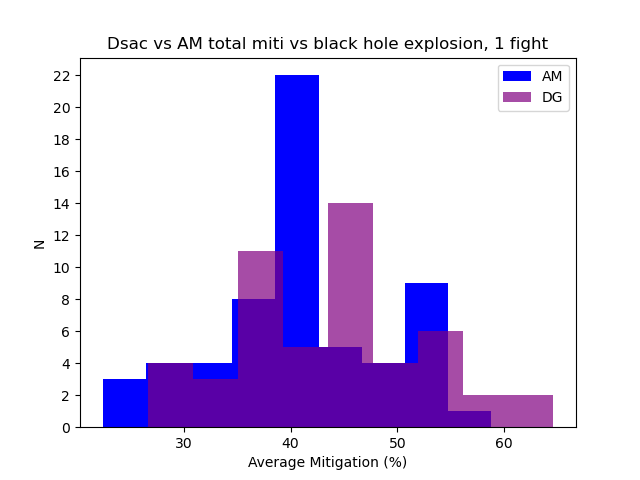
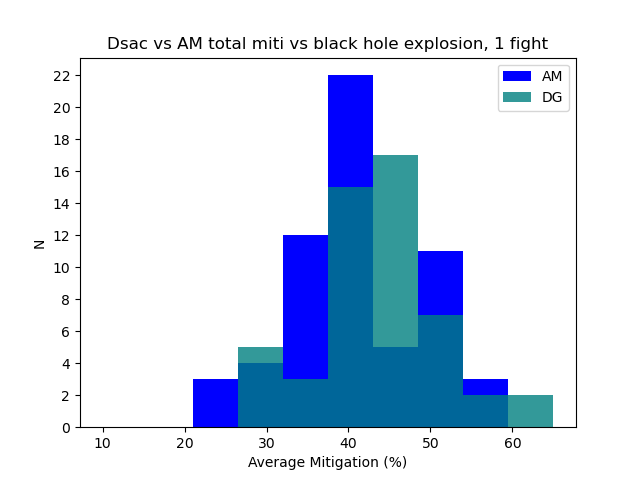
updated plots

Changed region(s): [[0.125, 0.1562, 0.875, 0.9375], [0.7812, 0.1875, 0.8438, 0.2188]]

diff --git a/am_vs_dg/test_external.py b/am_vs_dg/test_external.py
@@ -195,8 +195,10 @@ print(f'Average miti for DSac = ({dsac_mean:0.1f} +/- {dsac_std:0.1f})%')
 print(f'Average miti for both = ({both_mean:0.1f} +/- {both_std:0.1f})%')
 print(f'Average miti for none = ({none_mean:0.1f} +/- {none_std:0.1f})%')
 
-plt.hist(am, bins=9, label = "AM", color = "blue")
-plt.hist(dsac, bins=9, alpha = 0.7, label = "DG", color = "purple")
+b = np.linspace(10.0, 65.0, num = 11)
+
+plt.hist(am, bins=b, label = "AM", color = "blue")
+plt.hist(dsac, bins=b, alpha = 0.8, label = "DG", color = "teal")
 plt.title("Dsac vs AM total miti vs black hole explosion, 1 fight")
 plt.xlabel("Average Mitigation (%)")
 plt.ylabel("N")
@@ -204,8 +206,8 @@ plt.gca().yaxis.set_major_locator(plt.MultipleLocator(2))
 plt.legend()
 plt.savefig('dg_vs_am.png')
 
-plt.hist(none, bins=9, alpha = 0.6, label = "No External", color = "red")
-plt.hist(both, bins=9, alpha = 0.9, label = "AM & DG", color = "green")
+plt.hist(none, bins=b, alpha = 0.6, label = "No External", color = "red")
+plt.hist(both, bins=b, alpha = 0.9, label = "AM & DG", color = "green")
 plt.legend()
 
 plt.savefig('dg_vs_am_2.png')
